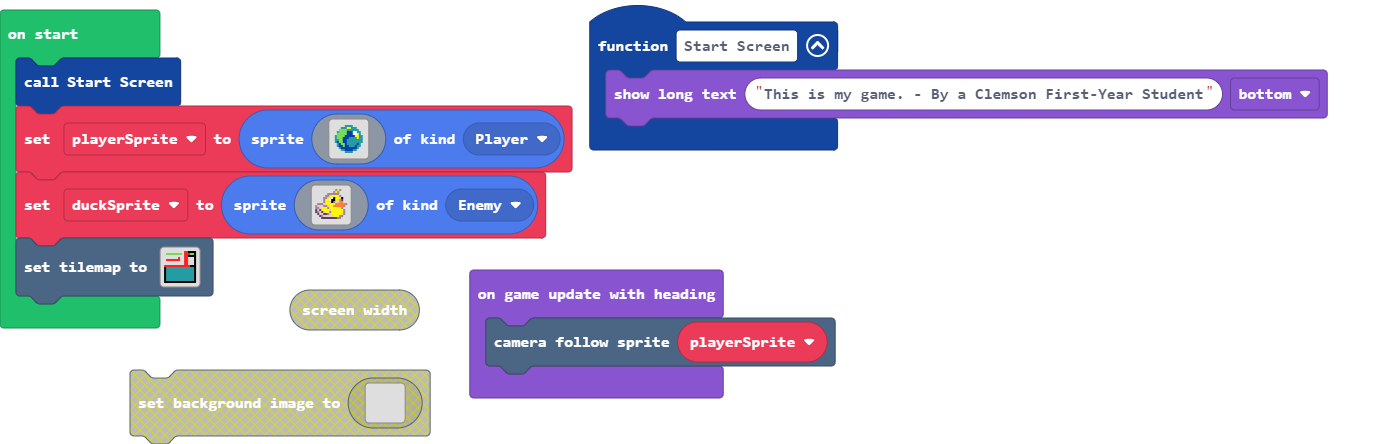
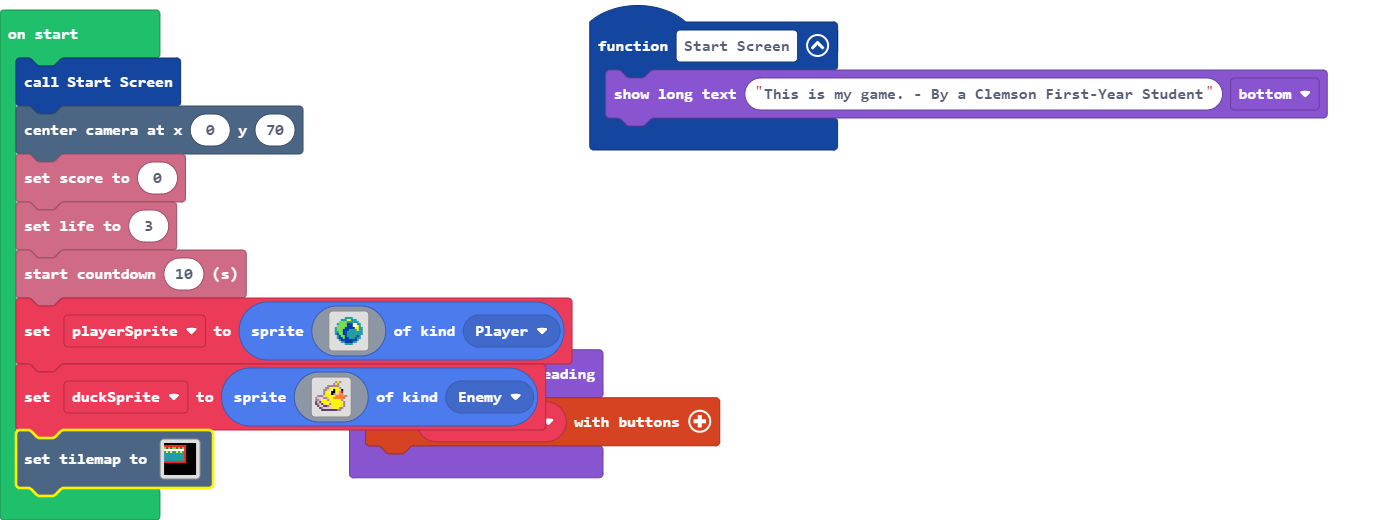
Updated Tile map/added player movement.

diff --git a/main.ts b/main.ts
@@ -1,11 +1,15 @@
 game.onGameUpdateWithHeading(function () {
-    scene.cameraFollowSprite(playerSprite)
+    controller.moveSprite(playerSprite)
 })
 function Start_Screen () {
     game.showLongText("This is my game. - By a Clemson First-Year Student", DialogLayout.Bottom)
 }
 let playerSprite: Sprite = null
 Start_Screen()
+scene.centerCameraAt(0, 70)
+info.setScore(0)
+info.setLife(3)
+info.startCountdown(10)
 playerSprite = sprites.create(img`
     . . . . . . . . . . . . . . . . 
     . . . . . . 6 6 6 6 . . . . . . 
@@ -42,21 +46,21 @@ let duckSprite = sprites.create(img`
     . . . c c c c c c c c b b . . . 
     . . . . . . . . . . . . . . . . 
     `, SpriteKind.Enemy)
-tiles.setTilemap(tiles.createTilemap(hex`1000100000000000000000000000050503030303000202020202020202000505040202030000000000000000000005050303030300000000000000050000050500000003000505050505050500000505000000030000000000000000000005050000000300000000000000000000050500000003050505050505050505050505050303030301010101010101010101010101010303010101010101010101010101010103030101010101010101010101010101030301010101010101010101010101010303010101010101010101010101010103030101010101010101010101010101030301010101010101010101010101010303030303030303030303030303030303`, img`
+tiles.setTilemap(tiles.createTilemap(hex`1000100003030303030303030303030303030303050505050505050505050503030303030204020402020402040205030303030307070707070707070707050303030303010601060101060106010503030303030101010101010101010105030303030301010101010101010101050303030303010101010101010101010503030303030101010101010101010105030303030305050505050505050505050303030303030303030303030303030303030303030303030303030303030303030303030303030303030303030303030303030303030303030303030303030303030303030303030303030303030303030303030303030303030303030303030303030303`, img`
+    . . . . . . . . . . . . . . . . 
+    2 2 2 2 2 2 2 2 2 2 2 . . . . . 
+    . . . . . . . . . . 2 . . . . . 
+    2 2 2 2 2 2 2 2 2 2 2 . . . . . 
+    . . . . . . . . . . 2 . . . . . 
+    . . . . . . . . . . 2 . . . . . 
+    . . . . . . . . . . 2 . . . . . 
+    . . . . . . . . . . 2 . . . . . 
+    . . . . . . . . . . 2 . . . . . 
+    2 2 2 2 2 2 2 2 2 2 2 . . . . . 
     . . . . . . . . . . . . . . . . 
     . . . . . . . . . . . . . . . . 
     . . . . . . . . . . . . . . . . 
     . . . . . . . . . . . . . . . . 
     . . . . . . . . . . . . . . . . 
     . . . . . . . . . . . . . . . . 
-    . . . . . . . . . . . . . . . . 
-    . . . . . . . . . . . . . . . . 
-    . . . . . . . . . . . . . . . . 
-    . . . . . . . . . . . . . . . . 
-    . . . . . . . . . . . . . . . . 
-    . . . . . . . . . . . . . . . . 
-    . . . . . . . . . . . . . . . . 
-    . . . . . . . . . . . . . . . . 
-    . . . . . . . . . . . . . . . . 
-    . . . . . . . . . . . . . . . . 
-    `, [myTiles.transparency16,myTiles.tile1,myTiles.tile2,myTiles.tile4,myTiles.tile3,myTiles.tile5], TileScale.Sixteen))
+    `, [myTiles.transparency16,myTiles.tile1,myTiles.tile2,myTiles.tile4,myTiles.tile3,myTiles.tile5,myTiles.tile7,myTiles.tile8], TileScale.Sixteen))

diff --git a/tilemap.g.ts b/tilemap.g.ts
@@ -12,6 +12,12 @@ namespace myTiles {
     export const tile4 = image.ofBuffer(hex``);
     //% fixedInstance jres blockIdentity=images._tile
     export const tile5 = image.ofBuffer(hex``);
+    //% fixedInstance jres blockIdentity=images._tile
+    export const tile6 = image.ofBuffer(hex``);
+    //% fixedInstance jres blockIdentity=images._tile
+    export const tile7 = image.ofBuffer(hex``);
+    //% fixedInstance jres blockIdentity=images._tile
+    export const tile8 = image.ofBuffer(hex``);
 
 }
 // Auto-generated code. Do not edit.
